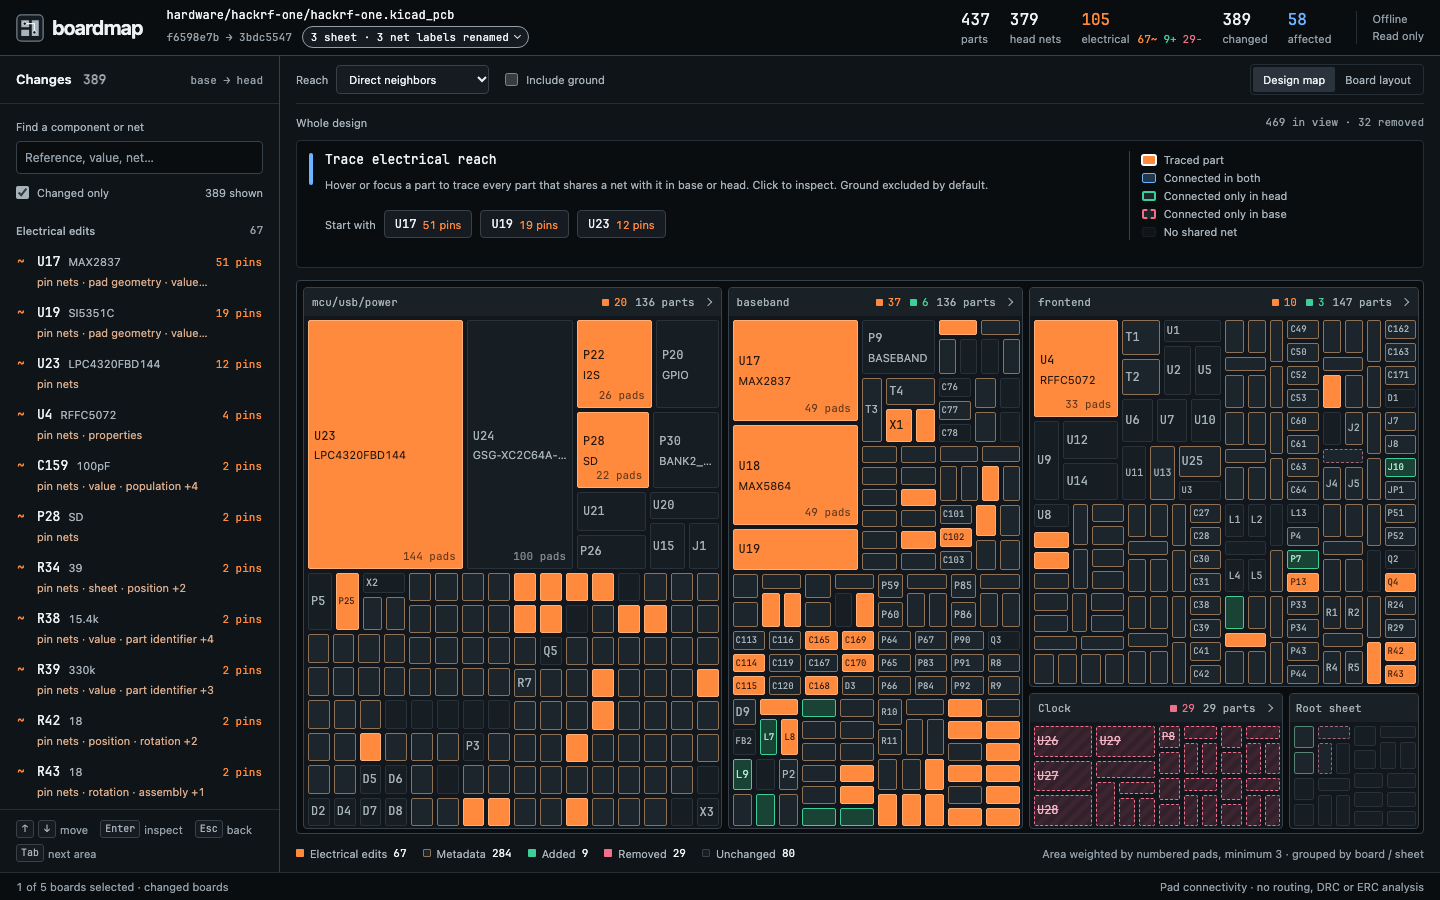
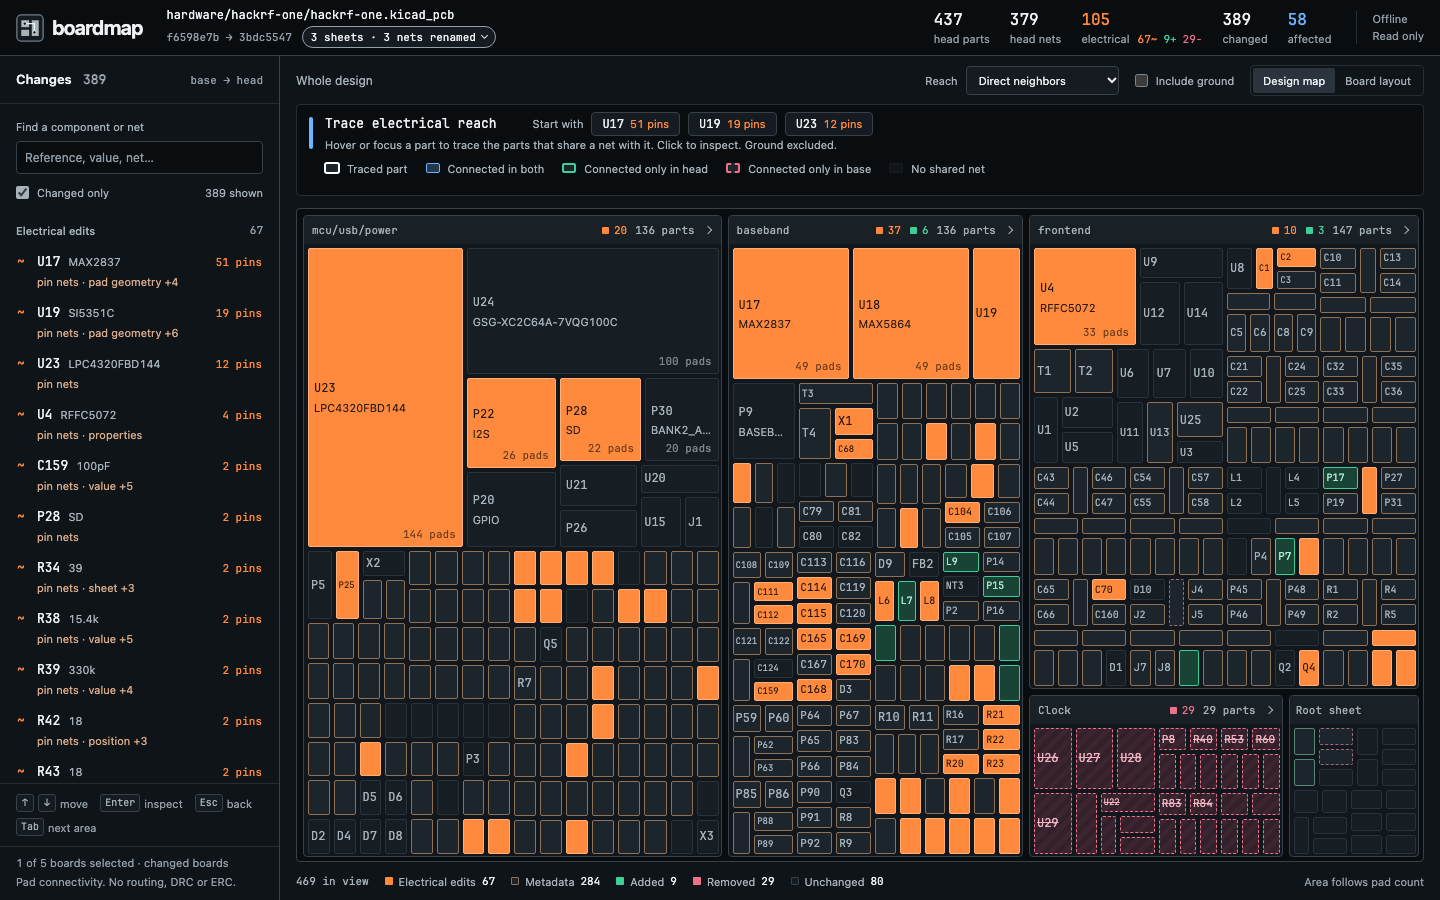
Show the current UI in the README and the net-label gallery

diff --git a/README.md b/README.md
@@ -4,7 +4,7 @@ See what a PCB change touches.
 
 A local, whole-design map for KiCad git reviews. Hover a part to trace its shared nets. Click it to inspect value, footprint, manufacturing fields, and pin-net changes, with before/after pad regions.
 
-![Corne PR review, map to electrical reach to part diff](https://raw.githubusercontent.com/krishhgg/boardmap/edba803fab67f7832c6dbb8039c47678788ae0a6/docs/media/instrument/boardmap-demo.gif)
+![Corne PR review: trace ZD1, drill into its sheet, open the part diff, return](https://raw.githubusercontent.com/krishhgg/boardmap/c967371b5baeaa0e30f5d3c8bbb7f3876b3cba03/ui/final-ui-corne.gif)
 
 ## Run it
 
@@ -29,7 +29,7 @@ By default, it includes every component in boards whose files changed. If no boa
 
 ## Review the electrical impact
 
-- The map groups parts by board and the schematic sheet names stored on footprints. Area follows numbered pad count, with a minimum size for small parts and sheet controls. Unchanged parts stay muted. Pin, pad, value, footprint, population and existing part-number replacements get solid orange; other modifications have neutral fill and an orange edge. Electrical additions are green and removals are striped pink. Metadata artwork keeps neutral fill and status outlines.
+- The map groups parts by board and the schematic sheet names stored on footprints. Area follows numbered pad count, with a minimum size for small parts and sheet controls. Unchanged parts stay muted. Pin, pad, value, footprint, population and existing part-number replacements get solid orange; other modifications have neutral fill and a muted tan edge. Electrical additions are green and removals are striped pink. Metadata artwork keeps neutral fill and status outlines.
 - Tab enters each component region once; arrows and Home / End move through it, and Enter / Space inspect. Hover or keyboard-focus any part, in the map or sidebar, to trace shared-net neighbors. Both revisions contribute connections, so disconnecting or removing a part still shows its former neighbors. Power nets connect a regulator to every part on that rail. Ground is excluded by name by default and can be included. A neighbor connected only in head gets a green ring and a green curve. A neighbor connected only in base gets a dashed pink ring and a dashed curve. Neighbors connected in both stay blue. In transitive mode, green and pink rings mark parts reachable in only one revision, blue covers the remaining structural reach, and only curves from the traced part carry revision color. The readout counts each kind and lists the nets the part joined or left first.
 - On touch screens, tap once to preview reach, then tap the same part again or use its Open diff action to inspect. In the overview, tapping a part narrower than 24 pixels opens its sheet with that part previewed and scrolled into view. Drilled sheets fit complete references and have targets at least 32 pixels wide and tall. The changes list can be expanded above the map.
 - Direct reach follows one net hop. Transitive reach walks through components and their nets. This is structural adjacency across both revisions, not circuit simulation or a claim that signals pass through an IC. Large transitive results can span most of a board. On a trace with more than 30 visible links, a net with more than 12 loads is treated as a rail: its loads keep a tint without a ring, and curves and rings go only to parts that also share a smaller net with the traced part. The readout names those rails. In direct reach, a part with more than 60 neighbors, or more than 20 curves to draw, is traced as a hub: when any of its connections changed, curves are drawn for the changed connections only, and neighbors whose connection did not change keep a tint without a ring. Above 80 remaining links, curves show only changed connections and links involving electrical, added or removed neighbors. Curves fade under part names and pass behind sheet headers, and each one starts at a dot inside the traced part. Every reachable neighbor stays highlighted. The desktop readout names what changed on the traced part beside its reference, ranks joined and left signal nets first, then joined and left rails, then the rest by neighbor count, and scrolls the remaining nets separately from its counts. Its idle and traced states share one height, so a hover does not move the map. Pause over another part to change the source. Movement across intervening tiles preserves the trace while you reach its net list. On phones, the readout shows the leading nets and stays visible while a drilled sheet scrolls. In the part inspector, open the neighbors disclosure to read every reached reference grouped by net, including parts outside the current sheet. Each reference opens its own inspection. Counts overlap when parts share several nets.
@@ -38,7 +38,9 @@ By default, it includes every component in boards whose files changed. If no boa
 
 The header counts head parts and nets, electrical changes and all changed components including removals. Beside the electrical total it shows the three terms of that sum: electrical edits, added parts and removed parts. Sheet headers and the legend use the same three classes and colors. Electrical changes include parts with pin, pad, value or footprint edits, DNP population transitions, replacements of both-present MPN / Part Number / Manufacturer Part Number identifiers, and added or removed parts with pads, except explicitly flagged unconnected fiducials. A bounded legacy DNP-field migration on verified board features stays in Metadata; BOM exclusion never defines population state. See [assembly priority](https://github.com/krishhgg/boardmap/blob/edba803fab67f7832c6dbb8039c47678788ae0a6/docs/assembly-priority.md). Filling an empty supplier or descriptive field alone stays in Metadata. The in-view total includes removed components, and its tooltip gives their count. Affected means unchanged direct neighbors of changed parts, excluding ground, across either revision. It is independent of the current hover and reach controls. Stable sheet UUIDs identify label renames. Boardmap reports these separately and normalizes old hierarchical net prefixes only when the mapping is unambiguous and does not merge distinct historical nets. Standalone net-label changes are reported separately when a unique, complete set of component pins matches across revisions. Added and removed loads participate in that proof; ambiguous matches and changed connections stay in the pin diff. Footprint rotations compare pad angles relative to the footprint, so rotation alone does not create a pad dump.
 
-![Shared-net reach on the real Corne PR](https://raw.githubusercontent.com/krishhgg/boardmap/edba803fab67f7832c6dbb8039c47678788ae0a6/docs/media/instrument/demo-frames/03-reach.png)
+![Shared-net reach on the real Corne PR: six parts joined through +5V in green, one removed fuse dashed](https://raw.githubusercontent.com/krishhgg/boardmap/156f3c681341db3fb0346fc2e72f152d9122de5b/docs/media/ui/map/corne/map-reach.png)
+
+![HackRF U23, a hub with 205 neighbors: only its changed connections are drawn](https://raw.githubusercontent.com/krishhgg/boardmap/156f3c681341db3fb0346fc2e72f152d9122de5b/docs/media/ui/map/hackrf/hub-reach.png)
 
 ## Try the real PRs
 
@@ -58,7 +60,7 @@ Each command fetches two pinned commits into a per-user cache, without a checkou
 | [HackRF #1411, HackRF One r10](https://github.com/greatscottgadgets/hackrf/pull/1411) | `f6598e7b..3bdc5547`, changed board |        437 |        105 |     389 |                 58 |
 | [Corne #237, v4.1.0](https://github.com/foostan/crkbd/pull/237)                       | `a935f345..eaf6e072`, cherry board  |        180 |         12 |      18 |                102 |
 
-The Corne PR changes both cherry and chocolate boards. Without `--board`, its report includes 360 head parts and 30 changed parts. The demo script selects cherry for a smaller review. See [current net-label proof](https://github.com/krishhgg/boardmap/tree/edba803fab67f7832c6dbb8039c47678788ae0a6/docs/media/net-labels), [visible return and readable-sheet captures](https://github.com/krishhgg/boardmap/tree/edba803fab67f7832c6dbb8039c47678788ae0a6/docs/media/continuity) and the [instrument demo](https://github.com/krishhgg/boardmap/tree/edba803fab67f7832c6dbb8039c47678788ae0a6/docs/media/instrument). Captures are actual Chromium runs, not mockups.
+The Corne PR changes both cherry and chocolate boards. Without `--board`, its report includes 360 head parts and 30 changed parts. The demo script selects cherry for a smaller review. See [current net-label proof](https://github.com/krishhgg/boardmap/tree/edba803fab67f7832c6dbb8039c47678788ae0a6/docs/media/net-labels), [visible return and readable-sheet captures](https://github.com/krishhgg/boardmap/tree/edba803fab67f7832c6dbb8039c47678788ae0a6/docs/media/continuity) the [instrument demo](https://github.com/krishhgg/boardmap/tree/edba803fab67f7832c6dbb8039c47678788ae0a6/docs/media/instrument) and the [current UI gallery](https://github.com/krishhgg/boardmap/tree/156f3c681341db3fb0346fc2e72f152d9122de5b/docs/media/ui). The older galleries record earlier revisions of the interface. Captures are actual Chromium runs, not mockups.
 
 ## Where it fits
 

diff --git a/docs/media/net-labels/README.md b/docs/media/net-labels/README.md
@@ -1,11 +1,11 @@
 # Proved net-label renames
 
-These four PNGs come from the running UI on the real, pinned HackRF PR1411 comparison. They show the current semantic counts after net labels are matched by complete pin membership. The Corne PR and its hero recording are unchanged.
+These four PNGs come from the running UI on the real, pinned HackRF PR1411 comparison. They show the semantic counts after net labels are matched by complete pin membership. They were retaken after the UI pass, so they show the current header, rename panel and layout. The counts and classifications they prove did not change, and neither did the Corne PR counts.
 
 | Capture | Viewport | Evidence |
 | --- | --- | --- |
 | `hackrf-map.png` | 1440 × 900 | 437 head parts, 105 electrical changes, 389 changed parts and 58 unchanged affected parts. |
-| `hackrf-labels.png` | 1440 × 900 | The disclosure names three sheet-label renames and three independently proved net-label renames. |
+| `hackrf-labels.png` | 1440 × 900 | The rename panel names three sheet-label renames and three independently proved net-label renames. |
 | `hackrf-metadata.png` | 1440 × 900 | R62 retains its property changes in Metadata, with no false rewired-pin row. |
 | `hackrf-phone-labels.png` | 390 × 844 | All renamed labels stay inside the phone viewport. |
 
